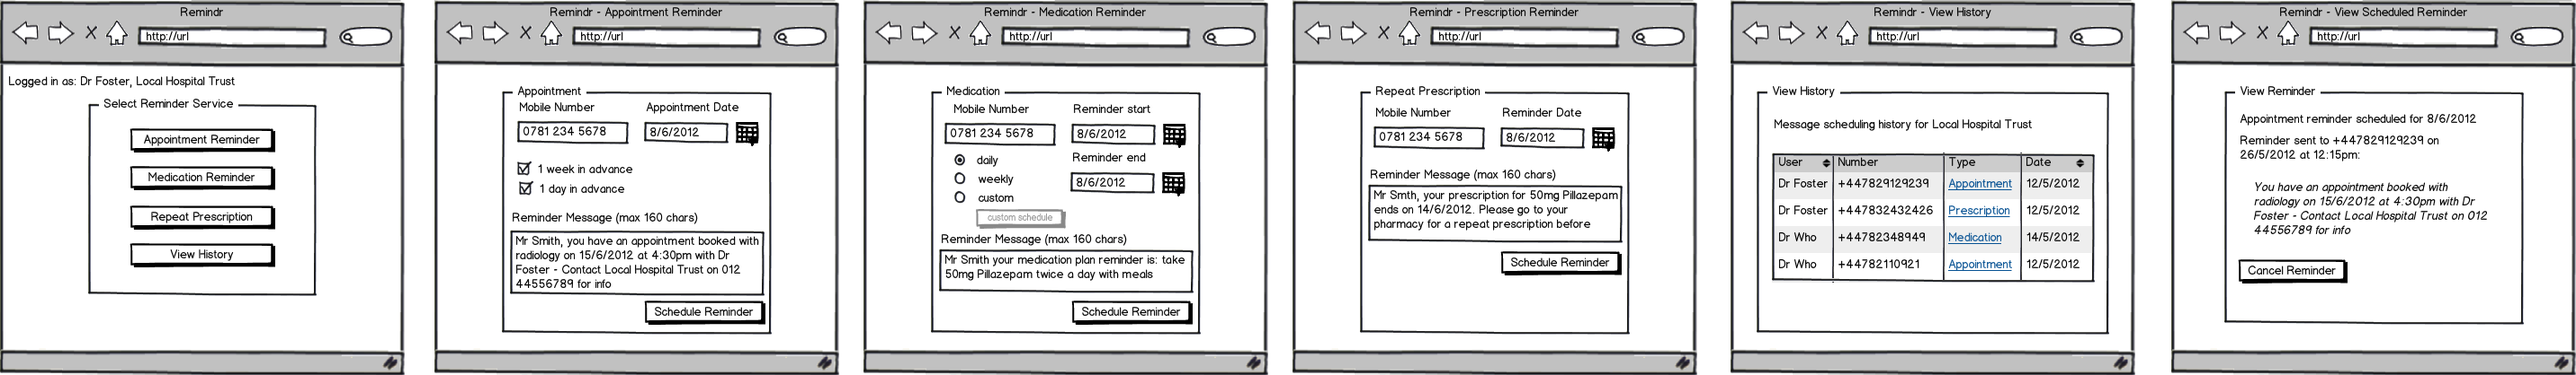
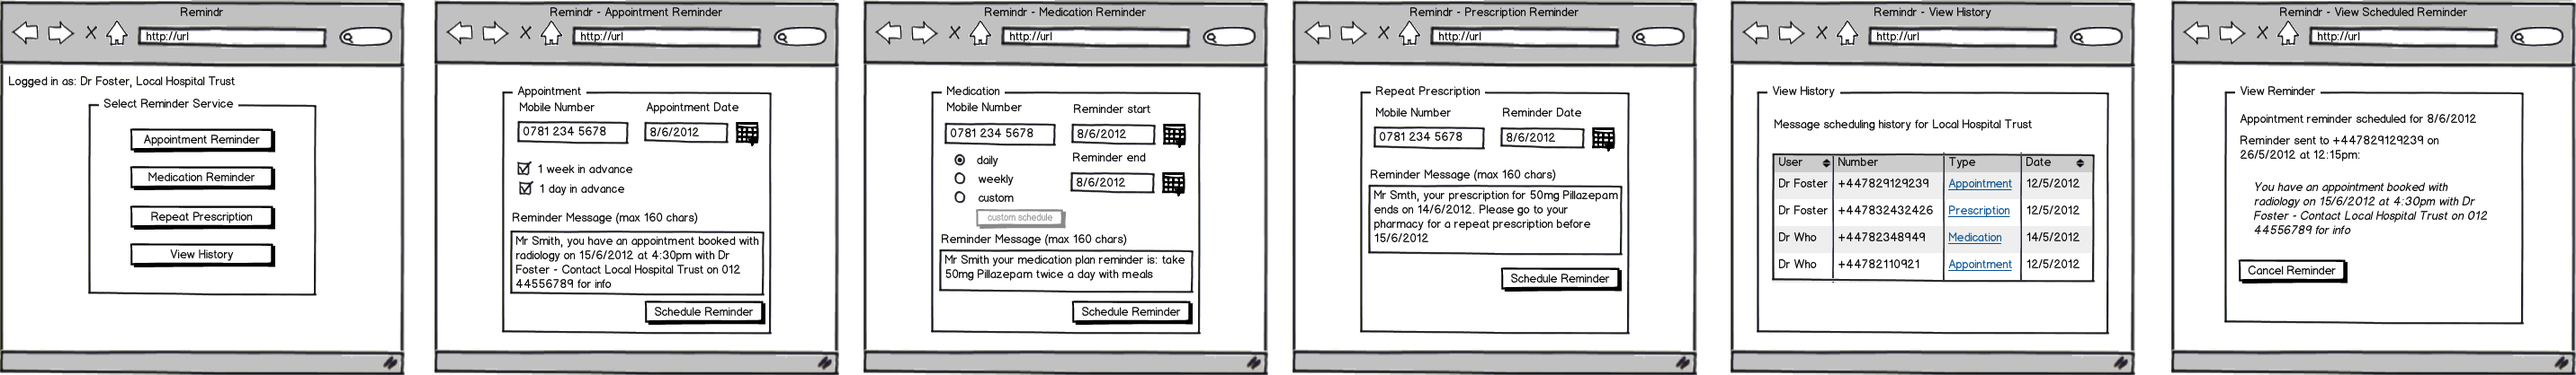
Adding prescription reminder view and todo controller action. Updated form css with width for text area.

Changed region(s): [[0.5283, 0.622, 0.6526, 0.7775], [0.3729, 0.2799, 0.404, 0.311]]

diff --git a/frontend/web/app/views/prescriptions/index.scala.html b/frontend/web/app/views/prescriptions/index.scala.html
@@ -1,0 +1,14 @@
+
+@main("Reminder") {
+  @helper.form(action = routes.Prescriptions.reminder, 'class -> "well"){
+  <label for="prescription-mobile" id="prescription-mobile-label">Mobile Number</label>
+  <input type="text" name="prescription-mobile" id="prescription-mobile" class="span3" />
+  <label for="prescription-reminder-date" id="prescription-reminder-date-label">Reminder Date</label>
+  <input type="text" name="prescription-reminder-date" id="prescription-reminder-date" class="span3" />
+
+  <label for="prescription-reminder-message" id="prescription-reminder-message-label">Reminder Message (max 160 chars)</label>
+  <textarea id="prescription-reminder-message" name="prescription-reminder-message" rows="4" cols="80">{Title} {First Name}, your prescription for {item} ends on {end date}. Please go to your pharmacy for a repeat prescription before {end date}.</textarea>
+  <input type="submit" id="prescription-submit" value="Schedule Reminder" class="btn-primary" />
+  }
+
+}

diff --git a/frontend/web/public/stylesheets/main.css b/frontend/web/public/stylesheets/main.css
@@ -8,3 +8,8 @@ body {
     line-height: 80px;
     width: 100%;
 }
+
+textarea {
+    display: block;
+    width: 300px;
+}
